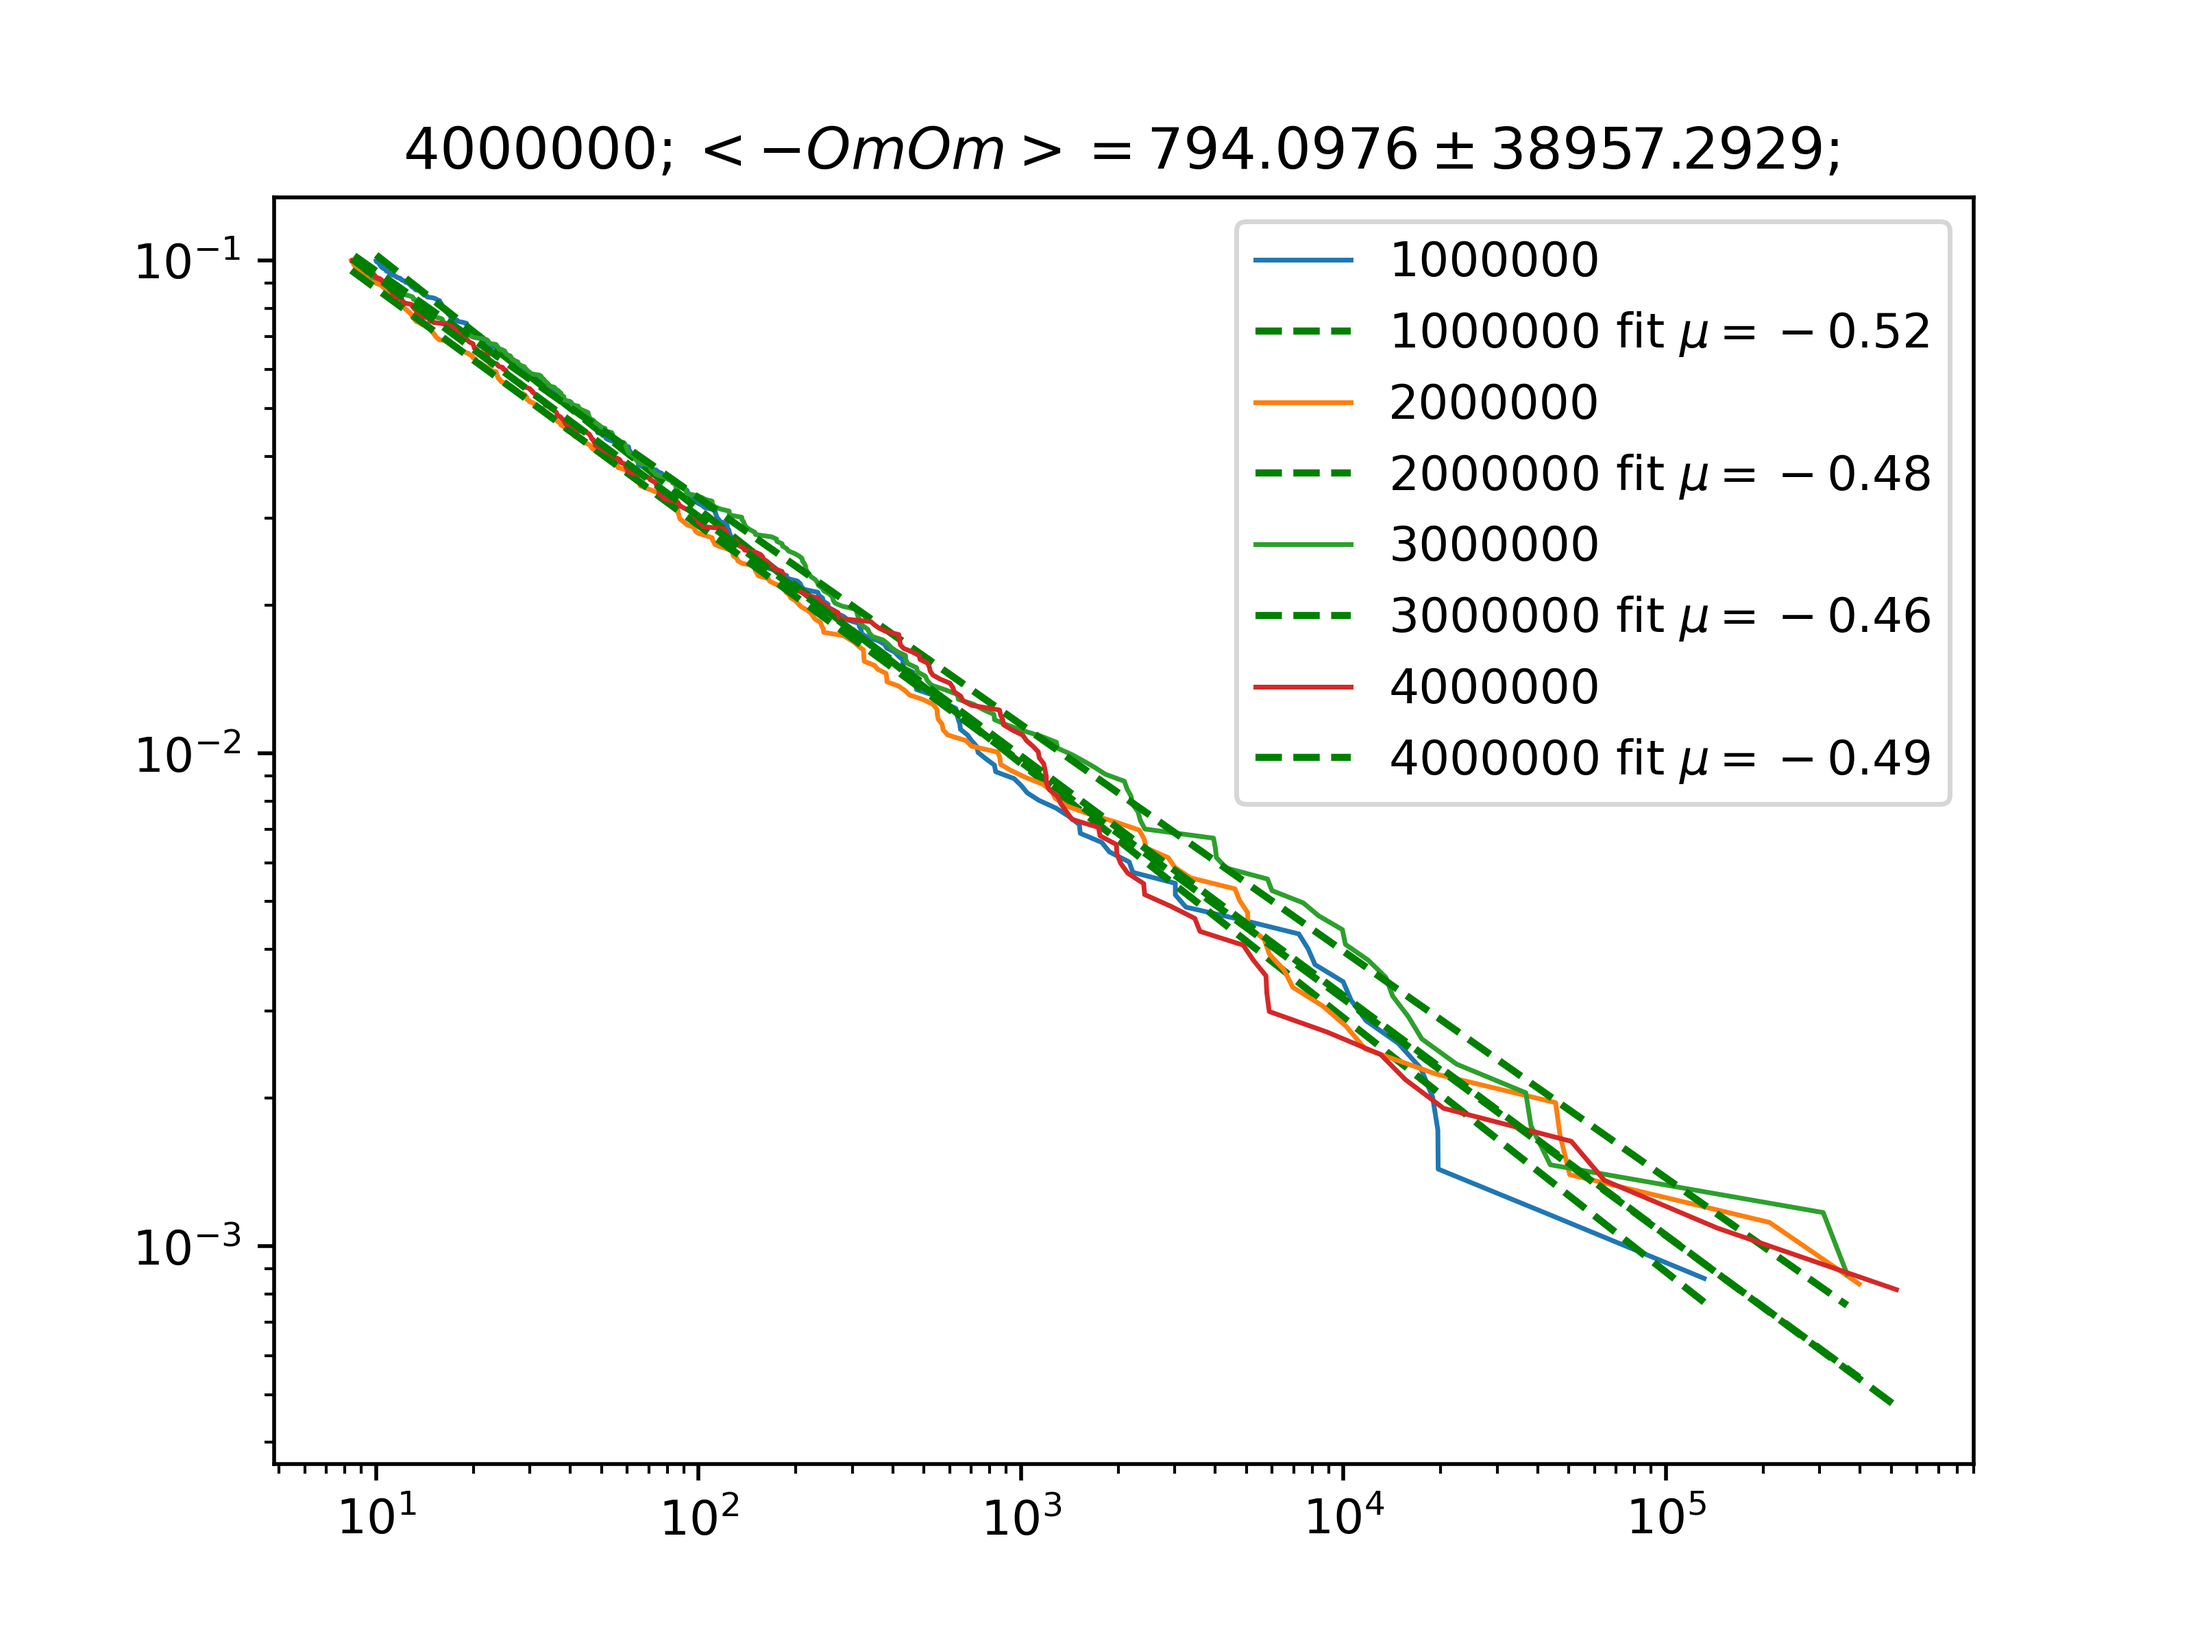
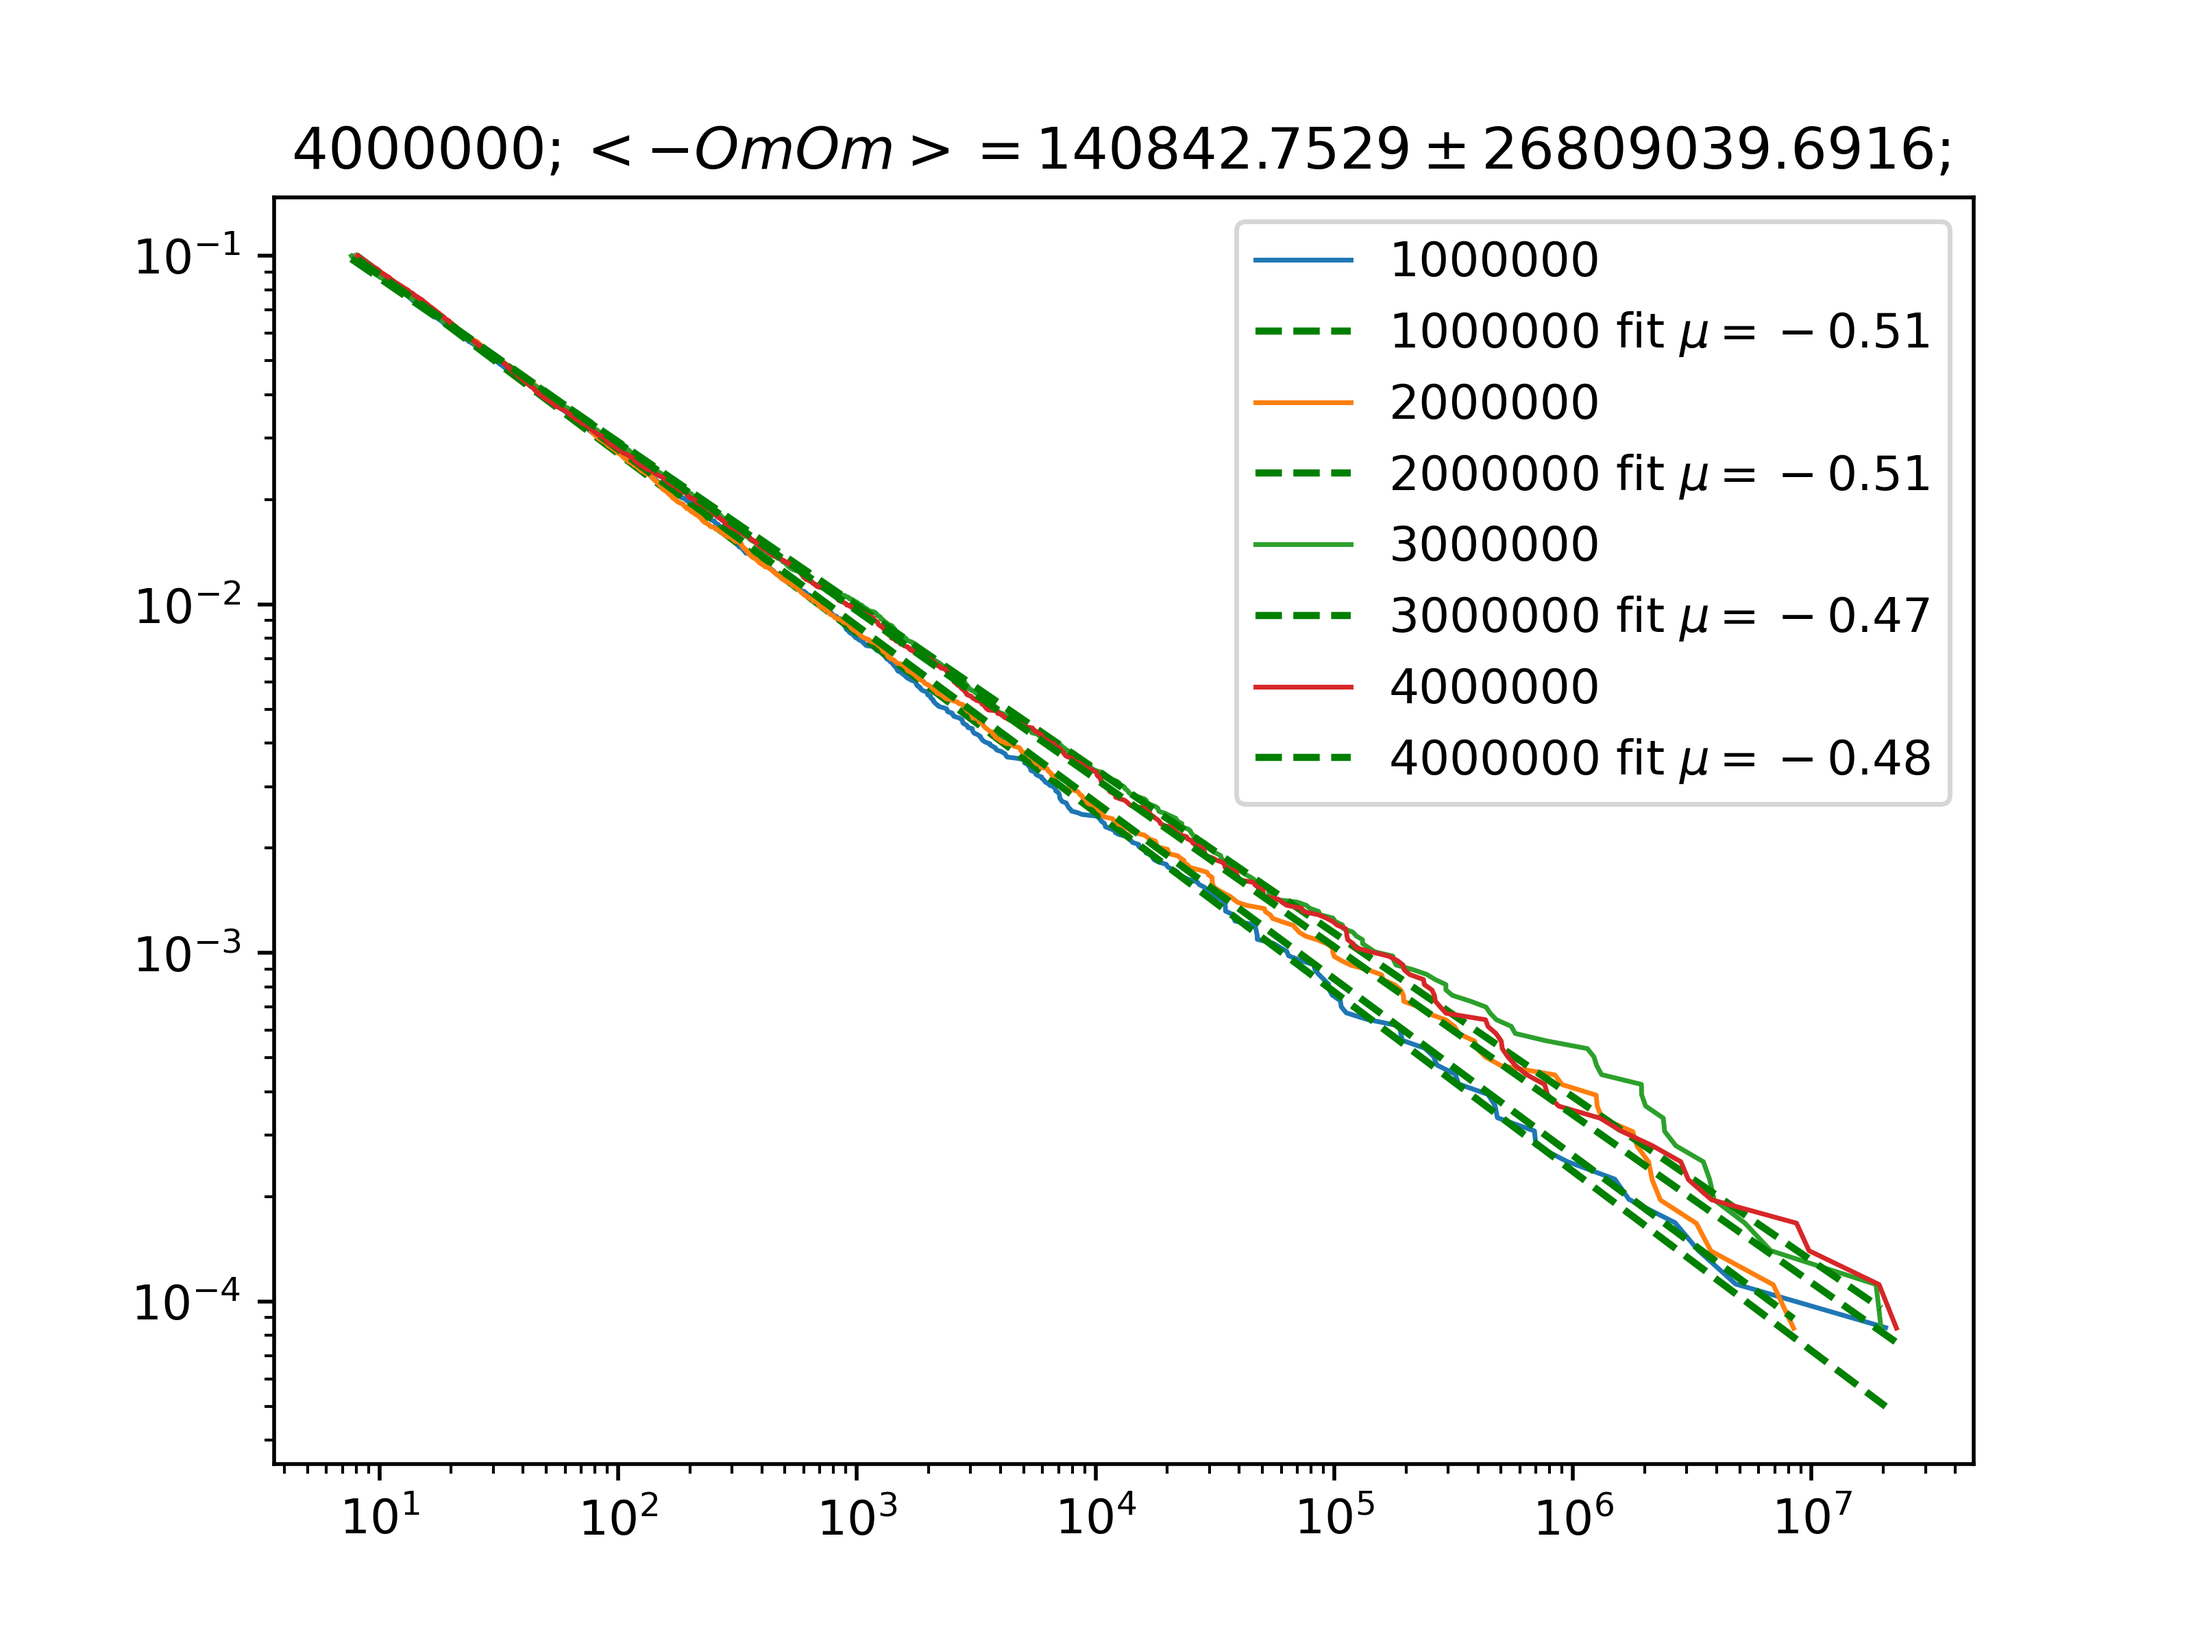
added one more plot for M = 1M to  4M pts

diff --git a/VorticityCorrelation.py b/VorticityCorrelation.py
@@ -174,7 +174,7 @@ class CurveSimulator():
 
 
 def test_FDistribution():
-    M = 1000000
+    M = 10000000
     T = 200000
     pairs = RandomFractions(100, 100).MakePairs()
     with Timer("done FDistribution for M,T= " + str(M) + "," + str(T)):
